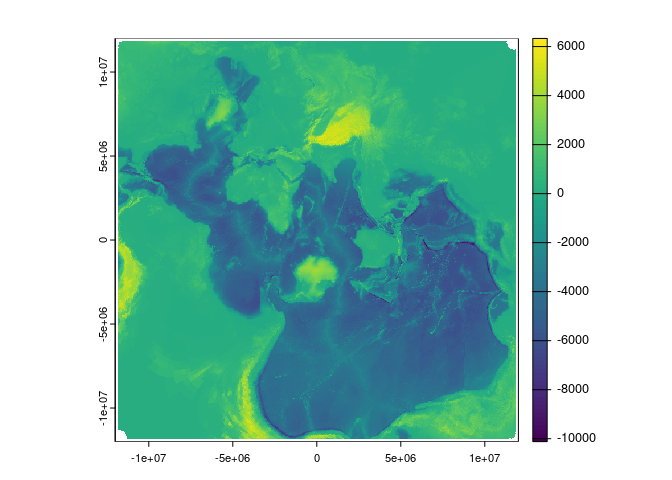
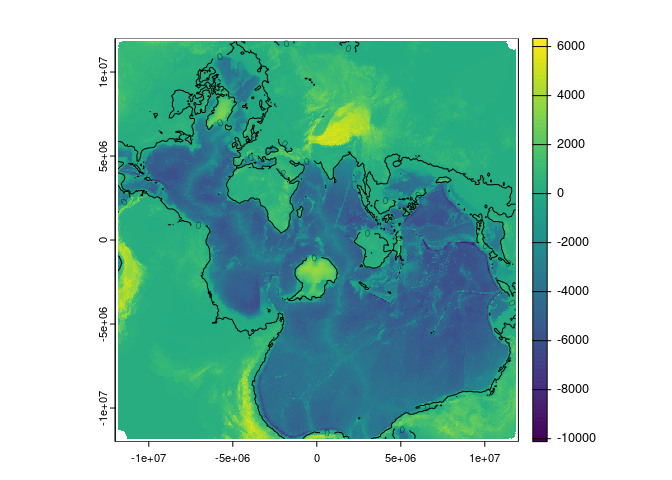
cleanup

diff --git a/README.md b/README.md
@@ -11,7 +11,11 @@ projection.
 
 Note that this R package was adapted from code available at
 <https://github.com/rtlemos/spilhaus>, we took the functions
-`from_lonlat_to_spilhaus_xy` and `from_spilhaus_xy_to_lonlat`.
+`from_lonlat_to_spilhaus_xy` and `from_spilhaus_xy_to_lonlat` and
+created
+
+- `spilhaus(x)` convert matrix ‘x’ longitude latitude to Spilhaus xy
+- `spilhaus(x)` convert matrix ‘x’ Spilhaus xy to longitude latitude.
 
 ## Installation
 
@@ -60,15 +64,8 @@ topo <- project(rast(dsn), rast(res = .25), by_util = TRUE)
 
 
 r <- setValues(r0, extract(topo, spilhaus_lonlat(xyFromCell(r0, seq_len(ncell(r0)))))[,1L])
-#> Warning in sin(lat_s_rad): NaNs produced
-#> Warning in cos(lat_s_rad): NaNs produced
-#> Warning in cos(lon_s_rad - beta): NaNs produced
-#> Warning in cos(lat_s_rad): NaNs produced
-#> Warning in sin(lon_s_rad - beta): NaNs produced
-#> Warning in cos(lat_s_rad): NaNs produced
-#> Warning in cos(lon_s_rad - beta): NaNs produced
-#> Warning in sin(lat_s_rad): NaNs produced
 plot(r)
+contour(r, add = T, levels = 0)
 ```
 
 <img src="man/figures/README-raster-1.png" width="100%" />
@@ -84,14 +81,6 @@ sst <- project(rast(dsn), rast(res = 0.25), by_util = TRUE)
 
 
 r <- setValues(r0, extract(sst, spilhaus_lonlat(xyFromCell(r0, seq_len(ncell(r0)))))[,1L])
-#> Warning in sin(lat_s_rad): NaNs produced
-#> Warning in cos(lat_s_rad): NaNs produced
-#> Warning in cos(lon_s_rad - beta): NaNs produced
-#> Warning in cos(lat_s_rad): NaNs produced
-#> Warning in sin(lon_s_rad - beta): NaNs produced
-#> Warning in cos(lat_s_rad): NaNs produced
-#> Warning in cos(lon_s_rad - beta): NaNs produced
-#> Warning in sin(lat_s_rad): NaNs produced
 plot(r, background = "black")
 ```
 
